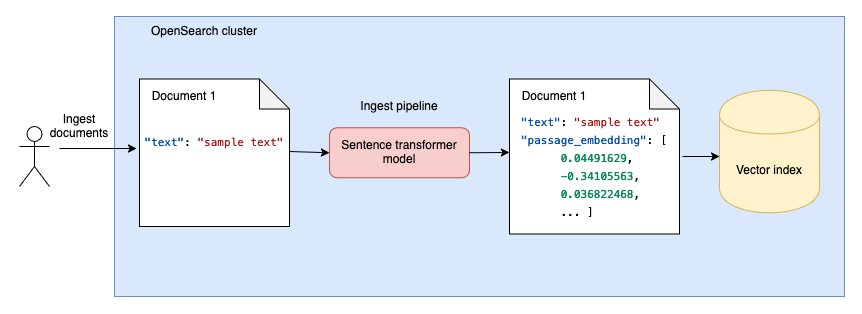
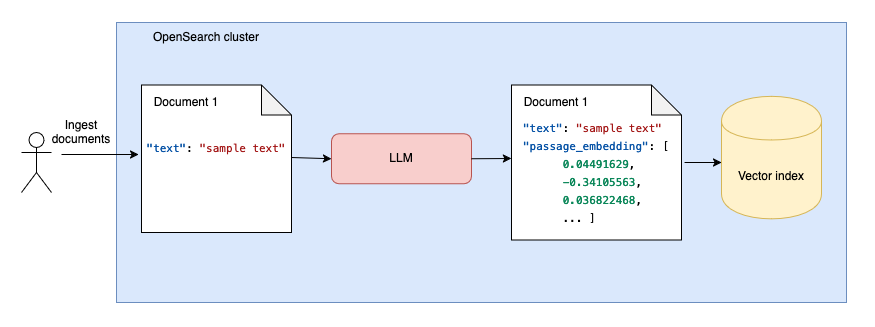
Add more explanations to getting started

Changed region(s): [[0.0302, 0.0287, 0.9954, 0.9459], [0.4223, 0.3153, 0.5128, 0.3726], [0.6334, 0.6592, 0.6937, 0.6879]]

diff --git a/_vector-search/getting-started/index.md b/_vector-search/getting-started/index.md
@@ -10,10 +10,10 @@ quickstart_cards:
   - heading: "Pre-generated embeddings quickstart"
     description: "Use embeddings generated outside of OpenSearch"
     link: "/vector-search/getting-started/pre-generated-embeddings/"
+tutorial_cards:
   - heading: "Auto-generated embeddings quickstart"
     description: "Use embeddings automatically generated within OpenSearch"
     link: "/vector-search/getting-started/auto-generated-embeddings/"
-tutorial_cards:
   - heading: "Semantic and hybrid search tutorial"
     description: "Learn how to implement semantic and hybrid search"
     link: "/vector-search/getting-started/neural-search-tutorial/"
@@ -46,9 +46,23 @@ auto_items:
 
 # Getting started with vector search
 
-Vector search, also known as similarity search or nearest neighbor search, is a powerful technique for finding items that are most similar to a given input. Unlike traditional search methods that rely on exact keyword matches, vector search uses _vector embeddings_—--numerical representations of data such as text, images, or audio. These embeddings are transformed into multi-dimensional vectors, capturing deeper patterns and similarities in meaning, context, or structure.
+Vector search, also known as similarity search or nearest neighbor search, is a powerful technique for finding items that are most similar to a given input. Use cases include semantic search to understand user intent, recommendations (for example, an "other songs you might like" feature in a music application), image recognition, and fraud detection. For more background information about vector search, see [Nearest neighbor search](https://en.wikipedia.org/wiki/Nearest_neighbor_search).
 
-Use cases include semantic search to understand user intent, recommendations (for example, an "other songs you might like" feature in a music application), image recognition, and fraud detection. For more background information about vector search, see [Nearest neighbor search](https://en.wikipedia.org/wiki/Nearest_neighbor_search).
+## Vector embeddings
+
+Unlike traditional search methods that rely on exact keyword matches, vector search uses _vector embeddings_---numerical representations of data such as text, images, or audio. These embeddings are stored as multi-dimensional vectors, capturing deeper patterns and similarities in meaning, context, or structure. For example, a large language model (LLM) can create vector embeddings from input text, as shown in the following image.
+
+![Generating embeddings from text]({{site.url}}{{site.baseurl}}/images/vector-search/embeddings.png)
+
+## Similarity search
+
+A vector embedding is a vector in a high-dimensional space. Its position and orientation capture meaningful relationships between objects. Vector search finds the most similar results by comparing a query vector to stored vectors and returning the closest matches. OpenSearch uses the k-nearest neighbors (k-NN) algorithm to efficiently identify the most similar vectors. Unlike keyword search, which relies on exact word matches, vector search measures similarity based on distance in this high-dimensional space.
+
+In the following image, the vectors for `Wild West` and `Broncos` are closer to each other, while both are far from `Basketball`, reflecting their semantic differences.
+
+![Similarity search]({{site.url}}{{site.baseurl}}/images/vector-search/vector-similarity.jpg){: width="450px"}
+
+To learn more about the types of k-NN search that OpenSearch supports, see [Vector search techniques]({{site.url}}{{site.baseurl}}/vector-search/vector-search-techniques/).
 
 ## Vector search options
 
@@ -70,30 +84,19 @@ OpenSearch offers two options for implementing vector search:
 
       ![Auto-generated embeddings search]({{site.url}}{{site.baseurl}}/images/vector-search/auto-vector-search.png)
 
----
-
-## Quickstart
+## Option 1: Pre-generated embeddings
 
 {% include cards.html cards=page.quickstart_cards %}
 
----
-
-## Option 1: Pre-generated embeddings
-
-Work with embeddings generated outside of OpenSearch:
+Working with embeddings generated outside of OpenSearch involves the following steps:
 
 {% include list.html list_items=page.pre_items%}
 
 ## Option 2: Auto-generated embeddings
 
-Work with text that is automatically converted to embeddings within OpenSearch:
+{% include cards.html cards=page.tutorial_cards %}
+
+Working with text that is automatically converted to embeddings within OpenSearch involves the following steps:
 
 {% include list.html list_items=page.auto_items%}
 
----
-
-## Tutorial
-
-For a more in-depth look into vector search using auto-generated embeddings, follow a comprehensive tutorial.
-
-{% include cards.html cards=page.tutorial_cards documentation_link=false %}

diff --git a/_vector-search/index.md b/_vector-search/index.md
@@ -52,17 +52,18 @@ OpenSearch provides an integrated  vector database that can support AI systems
 </span>
 
 ---
+## Explore vector search documentation
 
-## Bring your own vectors
+Choose one of the following learning paths to explore vector search documentation.
 
-If you’ve already generated your own vector embeddings, OpenSearch makes it easy to ingest and search them. Follow this documentation sequence to get started:
+### Learning path: Bring your own vectors
+
+If you’ve already generated your own vector embeddings, OpenSearch makes it easy to ingest and search them. Follow this documentation sequence to learn more:
 
 {% include list.html list_items=page.raw_steps%}
 
---- 
+### Learning path: Seamless text-to-embedding search
 
-## Seamless text-to-embedding search
-
-Simplify your search process by letting OpenSearch handle embedding generation. Follow this documentation sequence to get started:
+Simplify your search process by letting OpenSearch handle embedding generation. Follow this documentation sequence to learn more:
 
 {% include list.html list_items=page.ml_steps%}
